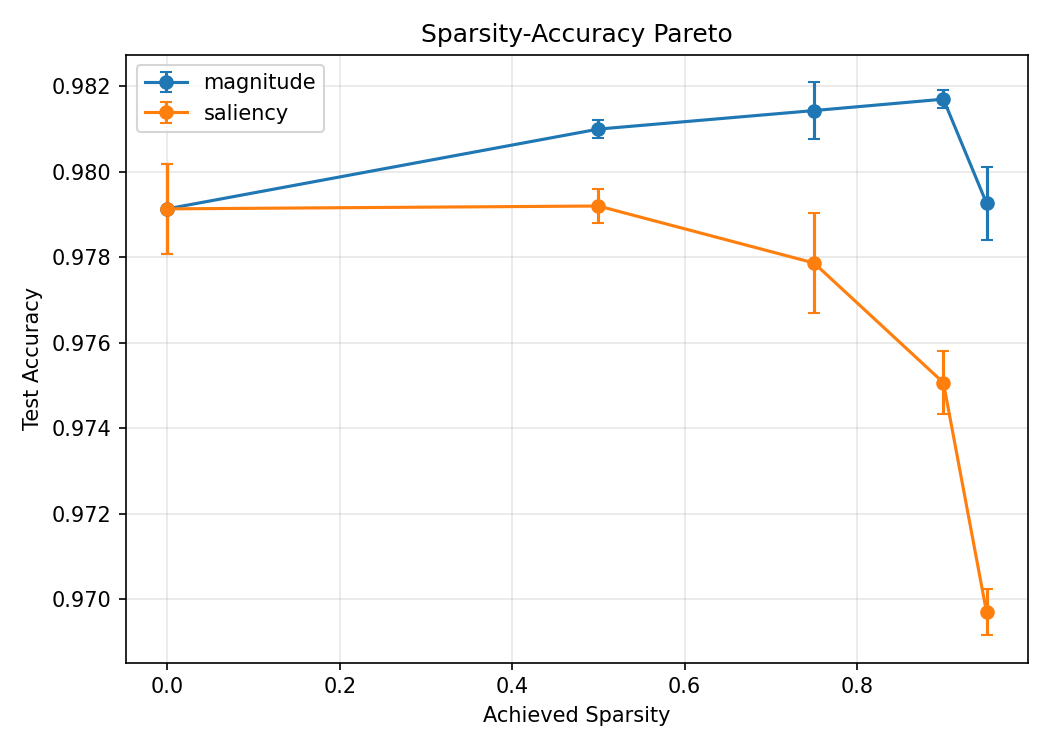
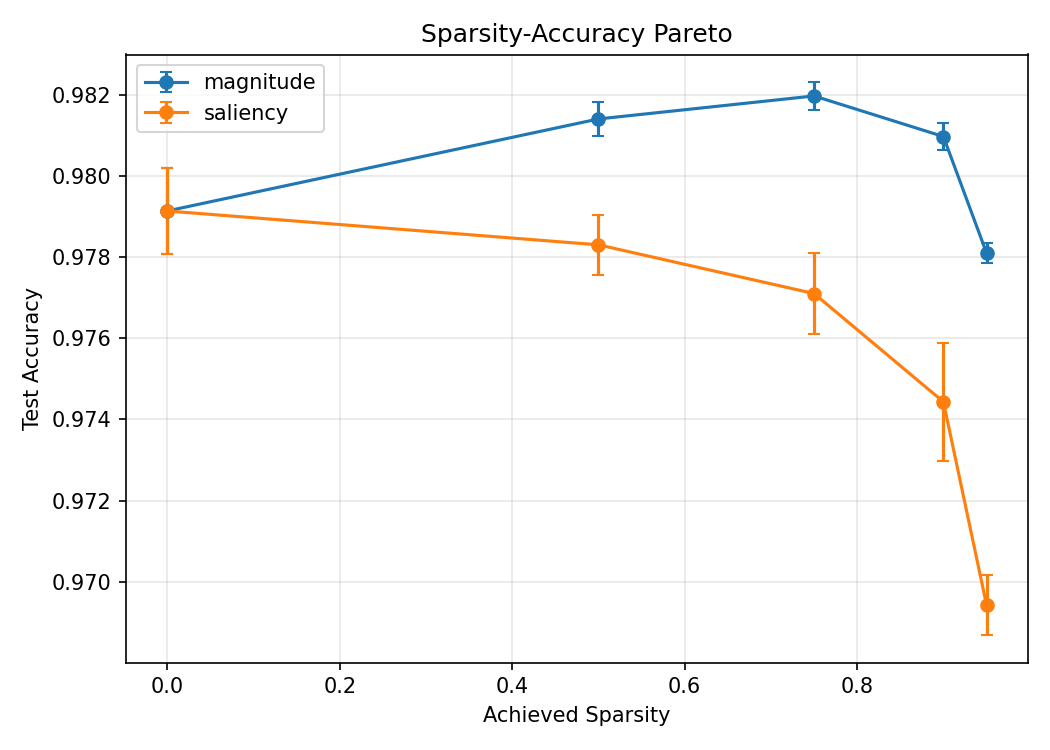
docs: refresh pruning evidence and reproducible submission guide
Record the corrected 30-run sweep, paired-seed results, Pareto plot, and Python 3.11 dependency versions. Clarify Taylor saliency, mask revival semantics, hard budgets, sparse runtime and storage limits, and supported autodiff and loss-reporting behavior.

diff --git a/DESIGN.md b/DESIGN.md
@@ -14,12 +14,20 @@
 - Gradients accumulate when a node is used multiple times.
 - Broadcasting is handled with an explicit `_unbroadcast` reduction step.
 - Matrix multiplication checks finite values in forward and backward paths.
+- Differentiable matrix multiplication supports the 2D matrices used by the MLP;
+  vector and batched matmul gradients are outside this implementation's scope.
 
 ### Masked-weight semantics
 - `Parameter` can own a binary mask.
 - Forward uses `weight.masked()` so masked weights are hard-zero in compute.
 - Mask updates apply in-place to both weights and gradients.
 - Adam state tracks prior mask and resets moments when a coordinate revives, avoiding stale-momentum corruption.
+- For a fixed mask, `W_eff = W * M` gives `dL/dW = dL/dW_eff * M`.
+  The effective-weight sensitivity may be nonzero at a masked position, while
+  the trainable-weight gradient is zero. Do not treat that zero gradient as
+  evidence that a disconnected connection could never be useful again.
+- Supported training uses a fresh graph each batch, one backward call, and mask
+  changes only after backward. Do not mutate masks/weights during a live graph.
 
 ## 2) Model + Optimization
 
@@ -28,15 +36,31 @@
 - Default architecture: `784 -> 256 -> 128 -> 10`.
 
 ### Initialization
-- He-normal for linear weights (`sqrt(2 / fan_in)`) for ReLU stability.
-- Zero bias initialization.
+- He-normal weights have standard deviation `sqrt(2 / fan_in)`. This compensates
+  approximately for ReLU discarding negative activations, helping preserve signal
+  scale through hidden layers. The same initialization is used for the output
+  layer for simplicity, although it has no ReLU and the argument does not apply
+  there directly.
+- Biases start at zero; random weights break symmetry between neurons.
 
 ### Optimizer
-- Adam with optional weight decay.
+- Adam with optional L2 regularization added to the gradient, not decoupled AdamW
+  weight decay. The reported experiments use no weight decay.
 - Mask-aware update logic:
   - masked coordinates receive zero gradient updates
   - moments are masked after step
   - revived coordinates reset moments
+
+Revival policy: reset only `m` and `v`, retaining the optimizer's global `t`.
+With fresh gradient `g` at global step `t`, the revived entry uses
+`m_hat = (1-beta1)*g/(1-beta1**t)` and
+`v_hat = (1-beta2)*g*g/(1-beta2**t)`. This is not a new optimizer at step 1;
+late revival can have a different effective step size. A numerical regression
+test checks the exact step-4 update and preserves an unaffected coordinate.
+Snapshots detect transitions between observed optimizer steps; a 1->0->1 toggle
+entirely between observations is not detected. A future regrowth system needs
+an explicit transition/reset API if it permits that lifecycle. Current pruning
+never regrows connections, so revival is tested support, not an experiment feature.
 
 ## 3) Pruning Design
 
@@ -46,6 +70,14 @@
   - First-order Taylor approximation motivates this:
     - Removing a weight corresponds to perturbation `delta_w = -w`
     - First-order loss change magnitude is approximately `|grad * delta_w| = |w * grad|`
+- Scores for both methods are copied after backward and before the Adam step,
+  and masks are applied after Adam using those snapshots. Weight and gradient
+  therefore refer to the same pre-update point. Scores are a local proxy,
+  not an exact prediction of the post-update removal loss.
+- Absolute Taylor change measures sensitivity, not guaranteed loss increase:
+  the signed estimate is `-w * grad`. Removing many weights is a finite change,
+  higher-order interactions matter, and a single minibatch gradient is noisy.
+  We do not assume saliency must outperform magnitude.
 
 ### Schedule
 - Gradual cubic sparsity ramp:
@@ -53,40 +85,83 @@
 - Global pruning across all masked layers.
 - Pruning events occur every `prune_interval` eligible optimizer steps.
 - Final eligible step always triggers pruning event, so target is not skipped when interval is large.
+- Require `1 <= start <= end <= epochs` and positive interval/batch size.
+- Global weight budget is `floor((1-s)*N)` using the decimal spelling of `s`;
+  biases are not pruned. At 95%, 234,752 weights allow 11,737 active connections,
+  not 11,738. Each trainer explicitly verifies the final budget.
+- Warmup permits initial learning; cubic decay reduces pruning increments near
+  the end, and remaining epochs allow recovery. This is a design choice, not a
+  demonstrated optimal schedule; no schedule ablation is claimed.
 
 ### Honest masking
 - Pruned weights are exactly zero (`mask=0`), not merely small values.
 - Forward computation uses mask during matmul.
+- Training still performs dense multiplication, including zeros. Hard masking
+  provides correct values/gradients, not reduced dense training work or memory.
 
 ## 4) Evidence and Measurement Strategy
 
 ### Pareto evidence
 - Run sweep across target sparsities and seeds.
+- MNIST pixels are scaled to [0, 1]. The original 60,000 training examples are
+  split into 55,000 training and 5,000 validation examples using each run's seed;
+  the fixed 10,000-example test set is held out from training.
 - Record per run:
   - achieved sparsity
   - validation/test loss and accuracy
   - active/dense parameter counts
   - dense and sparse MAC estimates
   - dense vs sparse-aware forward latency
+- Accuracy counts correct predictions over all examples. Logged losses average
+  minibatch means without weighting the smaller final batch; they are not exact
+  dataset-mean losses. The Pareto comparison and claim use accuracy, not loss.
 
 ### Real compute evidence
 - Dense MACs per example: sum of `fan_in * fan_out` over linear layers.
 - Sparse MACs per example: count of active (unmasked) connections.
 - Sparse-aware forward timing uses explicit masked-connection evaluation, not dense-times-zero.
-- This implementation prioritizes honest operation counting; wall-clock may still favor dense BLAS at this scale.
+- Connection MAC counts measure arithmetic work, not total runtime or storage.
+  Dense BLAS is faster than the sparse implementation in the reported experiments.
+- The dense baseline is also NumPy-only. Warmup checks sparse/dense output
+  agreement; unit tests also compare both with the autodiff model, including
+  zero/full/random masks, biases, and batch sizes 1 and 5.
+- Timings include mask construction/scanning and sparse gathers, with one warmup
+  and ten repetitions on a 512-example batch. Counts cover weight MACs only, not
+  bias additions, activations, indexing, or allocation. No compressed storage is
+  implemented. At 90%, measured sparse/dense ratios are 13.07x (magnitude) and
+  12.57x (saliency): lower arithmetic count, but slower inference.
 
 ### Baseline comparison
 - Compare `magnitude` vs `saliency` at matched target sparsity and identical seeds.
 - Aggregate mean/std across seeds.
+- The reference sweep gives 90%-sparse magnitude accuracy 0.980967
+  versus saliency 0.974433. Paired saliency-minus-magnitude differences are
+  -0.0053, -0.0063, -0.0080 (mean -0.006533, sample std 0.001365).
+  All three favor magnitude; they do not prove a universal ranking. Seed changes
+  affect initialization, batch order, and validation split together. Summary and
+  plot std use ddof=0 and describe observed variation, not confidence intervals.
+  Further tuning must use validation data, not these test results.
 
-### Falsifiable claim format
-- Claim is emitted by `scripts/summarize_sweep.py` at a chosen sparsity.
-- Example format:
-  - "At target sparsity 0.90, saliency test accuracy mean = X, magnitude = Y, delta = Z, over N seeds."
+### Falsifiable claim
+At 90% target sparsity, magnitude pruning achieves 98.0967% mean test accuracy
+versus 97.4433% for saliency across seeds 7, 13, and 21, a difference of 0.6533
+percentage points in favor of magnitude. Both retain 23,475 of 234,752 weights.
+The claim is supported by [raw results](results/pruning_sweep.csv) and the
+[summary table](results/pruning_summary.csv), generated by
+[scripts/summarize_sweep.py](scripts/summarize_sweep.py).
 
 ## 5) Reproducibility
 
 - Fixed random seeds used for data split and batch order.
+- Reference measurement environment: Python 3.11.17 on macOS 26.7 ARM64.
+  Dependencies are recorded in [requirements-lock.txt](requirements-lock.txt).
+  All 64 tests pass in this environment. Hardware and numerical-library changes
+  can affect timings and numerical results; fixed seeds do not guarantee
+  bitwise-identical reproduction.
+- Reference sweep: 8 epochs, batch 128, learning rate 0.001, hidden 256/128,
+  pruning epochs 2-7, interval 100, seeds 7/13/21, targets 0/0.5/0.75/0.9/0.95,
+  criteria magnitude/saliency, timing batch 512 and 10 repeats. README contains
+  the runnable commands. Prior evidence remains available in git history.
 - Scripts:
   - `scripts/train_dense_baseline.py`
   - `scripts/train_self_pruning.py`
@@ -97,3 +172,5 @@
   - grad checks
   - masking semantics and optimizer-state correctness
   - pruning schedule and criterion behavior
+  - pre-update score capture and final-budget enforcement in both trainers
+  - NumPy dense/sparse inference equivalence against the autodiff model

diff --git a/README.md b/README.md
@@ -1,75 +1,91 @@
-# Self-Pruning Network (NumPy + custom autodiff)
+# Self-Pruning Network
 
-This repository implements a neural network and pruning pipeline from scratch in Python + NumPy.
+A Python and NumPy implementation of reverse-mode autodiff, a composable MLP,
+mask-aware Adam, and gradual global unstructured pruning on MNIST. The experiments
+compare magnitude pruning (`|w|`) with first-order saliency (`|w * grad|`) under
+a cubic sparsity schedule and a hard connection budget.
 
-## Important restrictions
-- `scikit-learn` is used only for dataset loading and splitting.
-- No PyTorch/TensorFlow/JAX/Keras/autodiff libraries are used for model training or gradients.
-- Backpropagation, optimizer, pruning logic, and training loop are custom code.
+Scikit-learn is used **only to load MNIST**. Gradients, optimization, pruning,
+data splitting, and training are implemented without neural-network or autodiff
+frameworks. See [DESIGN.md](DESIGN.md) for derivations and implementation decisions.
 
-## Project status
-- [x] Phase 1 started: reverse-mode autodiff engine and gradient checks
-- [x] Phase 2: mask semantics + optimizer correctness tests
-- [x] Phase 3: MLP + Adam + dense training baseline
-- [x] Phase 4: self-pruning criteria and schedules
-- [x] Phase 5: Pareto evidence, sparse compute evidence, and falsifiable claim
+## Quick Start
 
-## Phase 3 baseline (MNIST)
-- Architecture: `784 -> 256 -> 128 -> 10` with ReLU hidden layers
-- Initialization: He-normal for linear weights, zero bias
-- Optimizer: custom Adam
-- Seed: `7`
-- 5-epoch dense baseline result: `test_acc = 0.9777`, `test_loss = 0.0702`
-
-### Reproduce baseline
-```bash
-python3 -m pytest -q
-python3 scripts/train_dense_baseline.py --epochs 5 --batch-size 128 --lr 0.001 --seed 7 --out-csv results/dense_learning_curve_seed7.csv
-python3 scripts/plot_learning_curve.py --csv results/dense_learning_curve_seed7.csv --out plots/dense_learning_curve_seed7.png
-```
-
-Notes:
-- `fetch_openml` is configured with `parser="liac-arff"` to avoid a hard pandas dependency.
-- Matrix multiplications explicitly validate finite outputs and gradients to catch true numerical failures.
-
-## Phase 4 gradual self-pruning
-- Criteria implemented: `magnitude` and `saliency` (|w * grad|)
-- Schedule implemented: gradual cubic sparsity ramp with global mask updates
-- Logging: epoch-wise sparsity, active parameter count, and pruned connections
-
-### Reproduce self-pruning training
-```bash
-python3 -m pytest -q
-python3 scripts/train_self_pruning.py --criterion saliency --target-sparsity 0.90 --epochs 12 --prune-start-epoch 2 --prune-end-epoch 10 --prune-interval 100 --out-csv results/self_pruning_learning_curve_seed7.csv
-```
-
-## Phase 5 evidence pipeline
-Run a sweep across sparsity targets, criteria, and seeds:
+Requires Python 3.10+. Python 3.11 was used for the reference experiments.
 
 ```bash
-python3 scripts/run_pruning_sweep.py --seeds 7,13,21 --targets 0.0,0.5,0.75,0.9,0.95 --criteria magnitude,saliency --epochs 8 --batch-size 128 --lr 0.001 --prune-start-epoch 2 --prune-end-epoch 7 --prune-interval 100 --out results/pruning_sweep.csv
+git clone https://github.com/ANISHANGADI/self-pruning-network.git
+cd self-pruning-network
+python -m venv .venv
+source .venv/bin/activate
+python -m pip install -r requirements.txt
+python -m pytest -q
 ```
 
-Generate plots and summary table:
+Use `python3` if needed. On Windows PowerShell, activate with
+`.venv\Scripts\Activate.ps1`. To reproduce the reference Python 3.11 dependency
+versions, install [requirements-lock.txt](requirements-lock.txt) instead.
+The first training run downloads MNIST and requires internet access.
 
+## Reproduce Experiments
+
+The default MLP is `784 -> 256 -> 128 -> 10`, with ReLU hidden layers,
+He-normal weights, zero biases, and Adam at learning rate `0.001`.
+
+Dense baseline and learning curve (5 epochs, seed 7):
 ```bash
-python3 scripts/plot_pareto.py --csv results/pruning_sweep.csv --out plots/sparsity_accuracy_pareto.png
-python3 scripts/summarize_sweep.py --csv results/pruning_sweep.csv --out results/pruning_summary.csv --claim-sparsity 0.9
+python scripts/train_dense_baseline.py --epochs 5 --seed 7 --out-csv results/dense_learning_curve_seed7.csv
+python scripts/plot_learning_curve.py --csv results/dense_learning_curve_seed7.csv --out plots/dense_learning_curve_seed7.png
 ```
 
-Evidence fields written by the sweep include:
-- achieved sparsity and test accuracy per seed
-- active parameter count vs dense parameter count
-- dense MACs per example vs sparse MACs per example
-- dense forward latency vs sparse-aware forward latency
+Single gradual-pruning run with epoch-level metrics:
+```bash
+python scripts/train_self_pruning.py --criterion saliency --target-sparsity 0.90 --epochs 12 --prune-start-epoch 2 --prune-end-epoch 10 --prune-interval 100
+```
 
-Generated artifacts (committed):
-- `results/pruning_sweep.csv`
-- `results/pruning_summary.csv`
-- `plots/sparsity_accuracy_pareto.png`
+Matched 8-epoch sweep, Pareto plot, and summary:
+```bash
+python scripts/run_pruning_sweep.py --seeds 7,13,21 --targets 0.0,0.5,0.75,0.9,0.95 --criteria magnitude,saliency --epochs 8 --batch-size 128 --lr 0.001 --prune-start-epoch 2 --prune-end-epoch 7 --prune-interval 100 --out results/pruning_sweep.csv
+python scripts/plot_pareto.py --csv results/pruning_sweep.csv --out plots/sparsity_accuracy_pareto.png
+python scripts/summarize_sweep.py --csv results/pruning_sweep.csv --out results/pruning_summary.csv --claim-sparsity 0.9
+```
 
-Falsifiable claim (from `results/pruning_summary.csv`):
-- At target sparsity `0.90` (3 seeds), magnitude pruning reached mean test accuracy `0.9817 ± 0.0002`, while saliency pruning reached `0.9751 ± 0.0007`; delta (saliency - magnitude) is `-0.0066`.
+These commands overwrite the corresponding outputs; use different output paths
+to preserve the reference results.
 
-Note:
-- The sparse-aware forward path in this repository is an explicit NumPy implementation used for honest work accounting. It may reduce MACs and active parameters while still being slower wall-clock than dense BLAS matmul at this scale.
+## Results
+
+Mean test accuracy across seeds `7,13,21`, using the matched 8-epoch sweep:
+
+| Model | Active connections | Test accuracy |
+| --- | ---: | ---: |
+| Dense | 234,752 | 97.9133% |
+| Magnitude, 90% target sparsity | 23,475 | 98.0967% |
+| Saliency, 90% target sparsity | 23,475 | 97.4433% |
+
+**Falsifiable claim:** at 90% target sparsity, magnitude pruning outperformed
+this saliency implementation by **0.6533 percentage points** on average across
+these three seeds. All three paired runs favored magnitude; this does not
+establish a universal ranking. Error bars show population standard deviation,
+not confidence intervals.
+
+![Sparsity versus test accuracy](plots/sparsity_accuracy_pareto.png)
+
+Evidence: [raw sweep](results/pruning_sweep.csv),
+[summary](results/pruning_summary.csv),
+[dense learning curve](plots/dense_learning_curve_seed7.png), and
+[baseline metrics](results/dense_learning_curve_seed7.csv).
+The separate 5-epoch baseline is not the matched comparator in the table.
+
+## Limitations
+
+- At 90% sparsity, sparse-aware inference uses about 10% of dense connection
+	MACs but is **13.07x slower** for magnitude and **12.57x slower** for saliency
+	than dense NumPy inference in the reference measurements. No latency speedup
+	is claimed; timing methodology and environment are documented in [DESIGN.md](DESIGN.md).
+- Training/evaluation use dense masked matrices. Arrays remain dense in memory;
+	active-weight reductions do not imply reduced allocated storage. Counts exclude biases.
+- Pruning does not automatically regrow connections. Adam's tested revival
+	policy resets moments while retaining its global step counter.
+- Results cover one dataset and three seeds. Timings and numerical results can
+	vary across hardware and dependencies. Model checkpoints are not saved.
